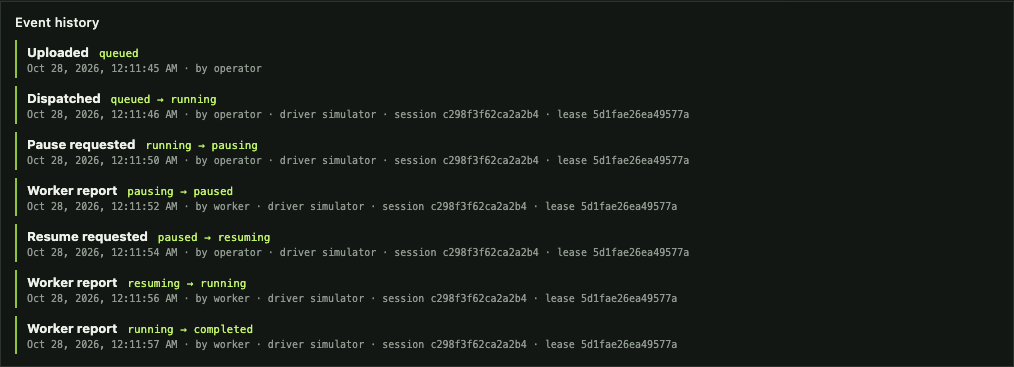
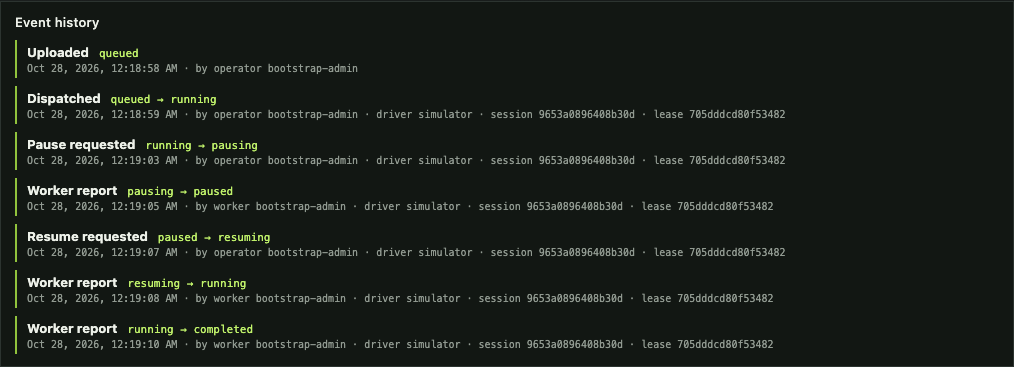
feat: attribute job events to the acting credential

diff --git a/internal/server/assets/job-history.js b/internal/server/assets/job-history.js
@@ -14,6 +14,7 @@ window.EmberDeckJobHistory = (() => {
     report: "Worker report",
     restart: "Server restart",
     heartbeat_expired: "Driver heartbeat expired",
+    credential_revoked: "Worker credential revoked",
   };
 
   function element(name, className, text) {
@@ -77,7 +78,7 @@ window.EmberDeckJobHistory = (() => {
       head.append(element("strong", "", actions[event.action] || event.action), element("span", "job-history-states", event.from ? `${event.from} → ${event.to}` : event.to));
       const meta = element("div", "job-history-meta");
       meta.append(timeElement(event.time));
-      const facts = [`by ${event.source}`];
+      const facts = [event.credential_name ? `by ${event.source} ${event.credential_name}` : `by ${event.source}`];
       if (event.driver_id) facts.push(`driver ${event.driver_id}`);
       if (event.session_id) facts.push(`session ${event.session_id}`);
       if (event.lease_id) facts.push(`lease ${event.lease_id}`);

diff --git a/e2e/job-history.spec.js b/e2e/job-history.spec.js
@@ -52,6 +52,7 @@ test('job list shows run times and the job view shows the event history', async 
   await expect(entries.nth(1)).toContainText('Dispatched');
   await expect(entries.nth(1)).toContainText('queued → running');
   await expect(entries.nth(1)).toContainText('driver simulator');
+  await expect(entries.nth(1)).toContainText('by operator bootstrap-admin');
   await expect(entries.nth(1)).toContainText(/lease [0-9a-f]{16}/);
   await expect(entries.nth(2)).toContainText('Worker report');
   await expect(entries.nth(2)).toContainText('running → completed');

diff --git a/docs/api.md b/docs/api.md
@@ -191,7 +191,10 @@ is persisted. `from` is omitted when a job is created and `to` is `deleted`
 when it is removed. `source` is `operator` (API requests), `worker` (driver
 reports), or `server` (recovery and expiry). `action` is one of `upload`,
 `generate`, `start`, `pause`, `resume`, `cancel`, `delete`, `report`,
-`restart`, or `heartbeat_expired`. `detail` carries the reported error for
+`restart`, `heartbeat_expired`, or `credential_revoked` (an admin revoked the
+worker credential of an active job). `credential_id` and `credential_name`
+identify the API credential whose request caused the change; server events
+have none. Any role that can read jobs can read their history. `detail` carries the reported error for
 `failed` and `interrupted` events. Progress-only reports and repeated requests
 that do not change the state record nothing.
 

diff --git a/docs/operator-guide.md b/docs/operator-guide.md
@@ -310,9 +310,10 @@ change (for example `queued → running`), when the server recorded it, and who
 caused it:
 
 - **operator**: upload, generation, Start, Pause, Resume, Cancel, or Delete
-  requests made through the API or console.
+  requests made through the API or console, or revoking the credential of a
+  worker that had an active job. The entry names the credential used.
 - **worker**: a state reported by the assigned driver, such as a confirmed
-  hold, completion, or failure.
+  hold, completion, or failure, with the worker credential's name.
 - **server**: an interruption recorded by the server itself after a restart or
   when the driver's heartbeat expired.
 
